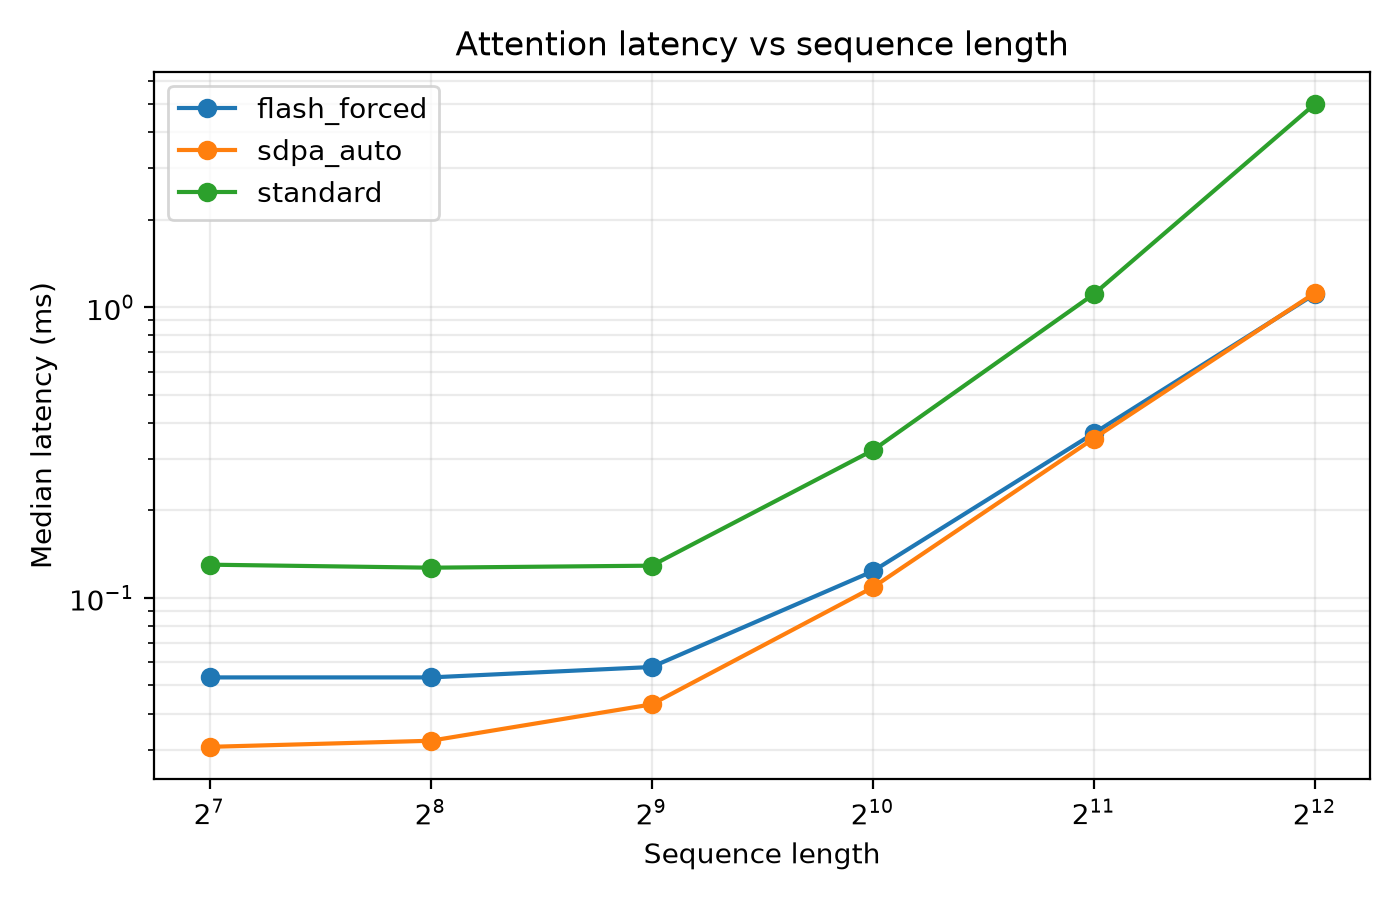
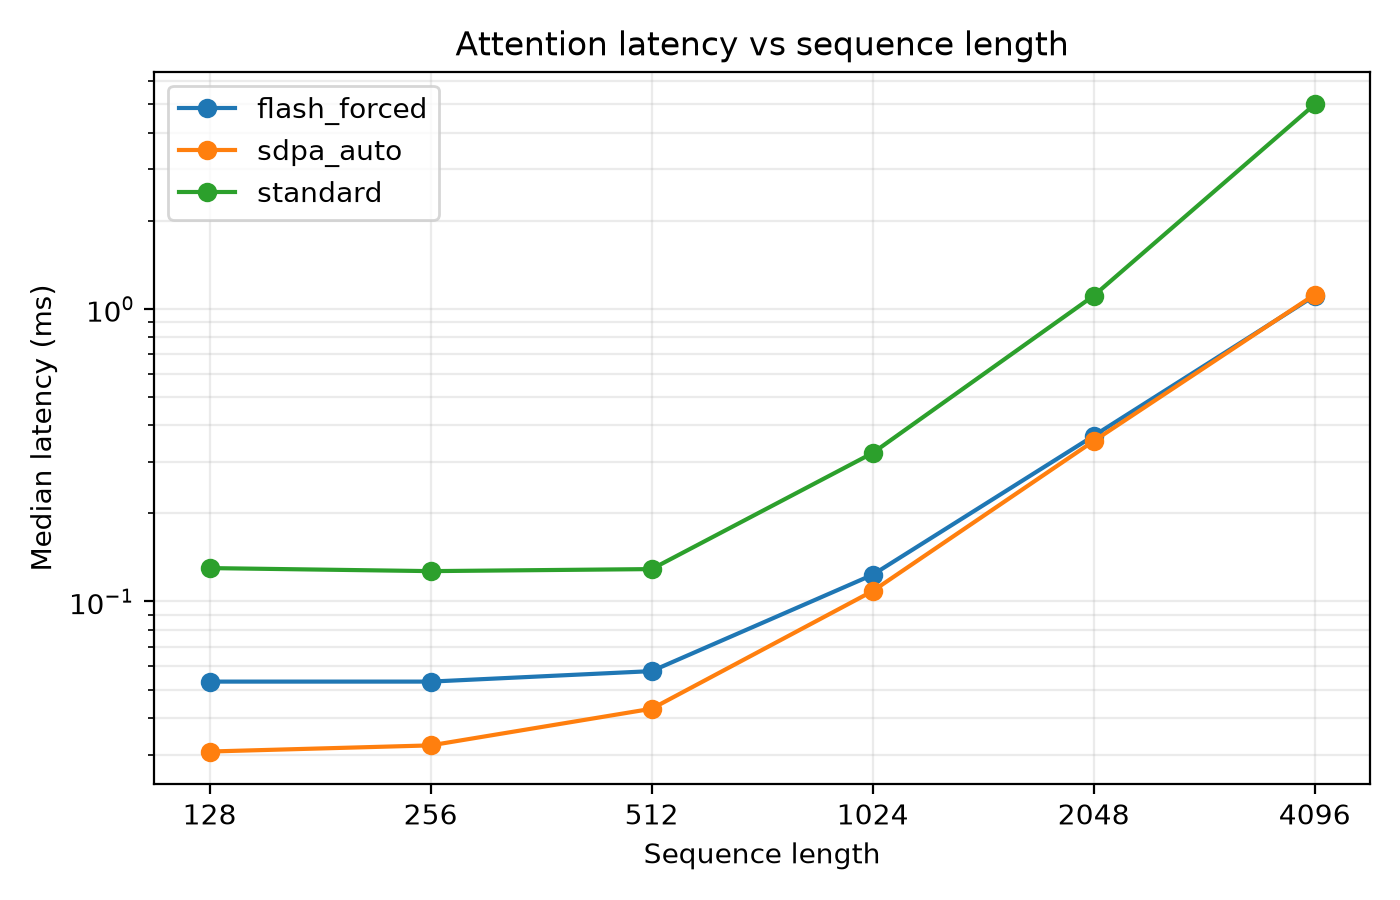
Improve CUDA result plots

diff --git a/src/plot_results.py b/src/plot_results.py
@@ -16,13 +16,20 @@ def parse_args() -> argparse.Namespace:
     return parser.parse_args()
 
 
+def set_sequence_axis(ax: plt.Axes, data: pd.DataFrame) -> None:
+    seq_lengths = sorted(data["seq_len"].unique())
+    ax.set_xscale("log", base=2)
+    ax.set_xticks(seq_lengths)
+    ax.set_xticklabels([str(int(seq_len)) for seq_len in seq_lengths])
+
+
 def save_latency_plot(data: pd.DataFrame, output_dir: Path) -> None:
     fig, ax = plt.subplots(figsize=(7, 4.5))
     data = data[data["status"] == "ok"] if "status" in data.columns else data
     for method, group in data.groupby("method"):
         group = group.sort_values("seq_len")
         ax.plot(group["seq_len"], group["median_latency_ms"], marker="o", label=method)
-    ax.set_xscale("log", base=2)
+    set_sequence_axis(ax, data)
     ax.set_yscale("log")
     ax.set_xlabel("Sequence length")
     ax.set_ylabel("Median latency (ms)")
@@ -42,12 +49,12 @@ def save_memory_plot(data: pd.DataFrame, output_dir: Path) -> None:
     for method, group in data.groupby("method"):
         group = group.sort_values("seq_len")
         ax.plot(group["seq_len"], group["peak_memory_mb"], marker="o", label=method)
-    ax.set_xscale("log", base=2)
+    set_sequence_axis(ax, data)
     ax.set_xlabel("Sequence length")
-    ax.set_ylabel("Recorded allocated memory (MiB)")
-    ax.set_title("Recorded memory vs sequence length")
+    ax.set_ylabel("Allocated memory (MiB)")
+    ax.set_title("Attention memory vs sequence length")
     ax.grid(True, which="both", alpha=0.25)
-    ax.legend()
+    ax.legend(loc="lower left")
     fig.tight_layout()
     fig.savefig(output_dir / "peak_memory_vs_sequence_length.png", dpi=200)
     plt.close(fig)
@@ -60,7 +67,7 @@ def save_speedup_plot(data: pd.DataFrame, output_dir: Path) -> None:
     for method, group in compared.groupby("method"):
         ax.plot(group["seq_len"], group["speedup_over_standard"], marker="o", label=method)
     ax.axhline(1.0, color="black", linewidth=1, linestyle=":")
-    ax.set_xscale("log", base=2)
+    set_sequence_axis(ax, data)
     ax.set_xlabel("Sequence length")
     ax.set_ylabel("Speedup over standard attention")
     ax.set_title("Attention backend speedup vs sequence length")
